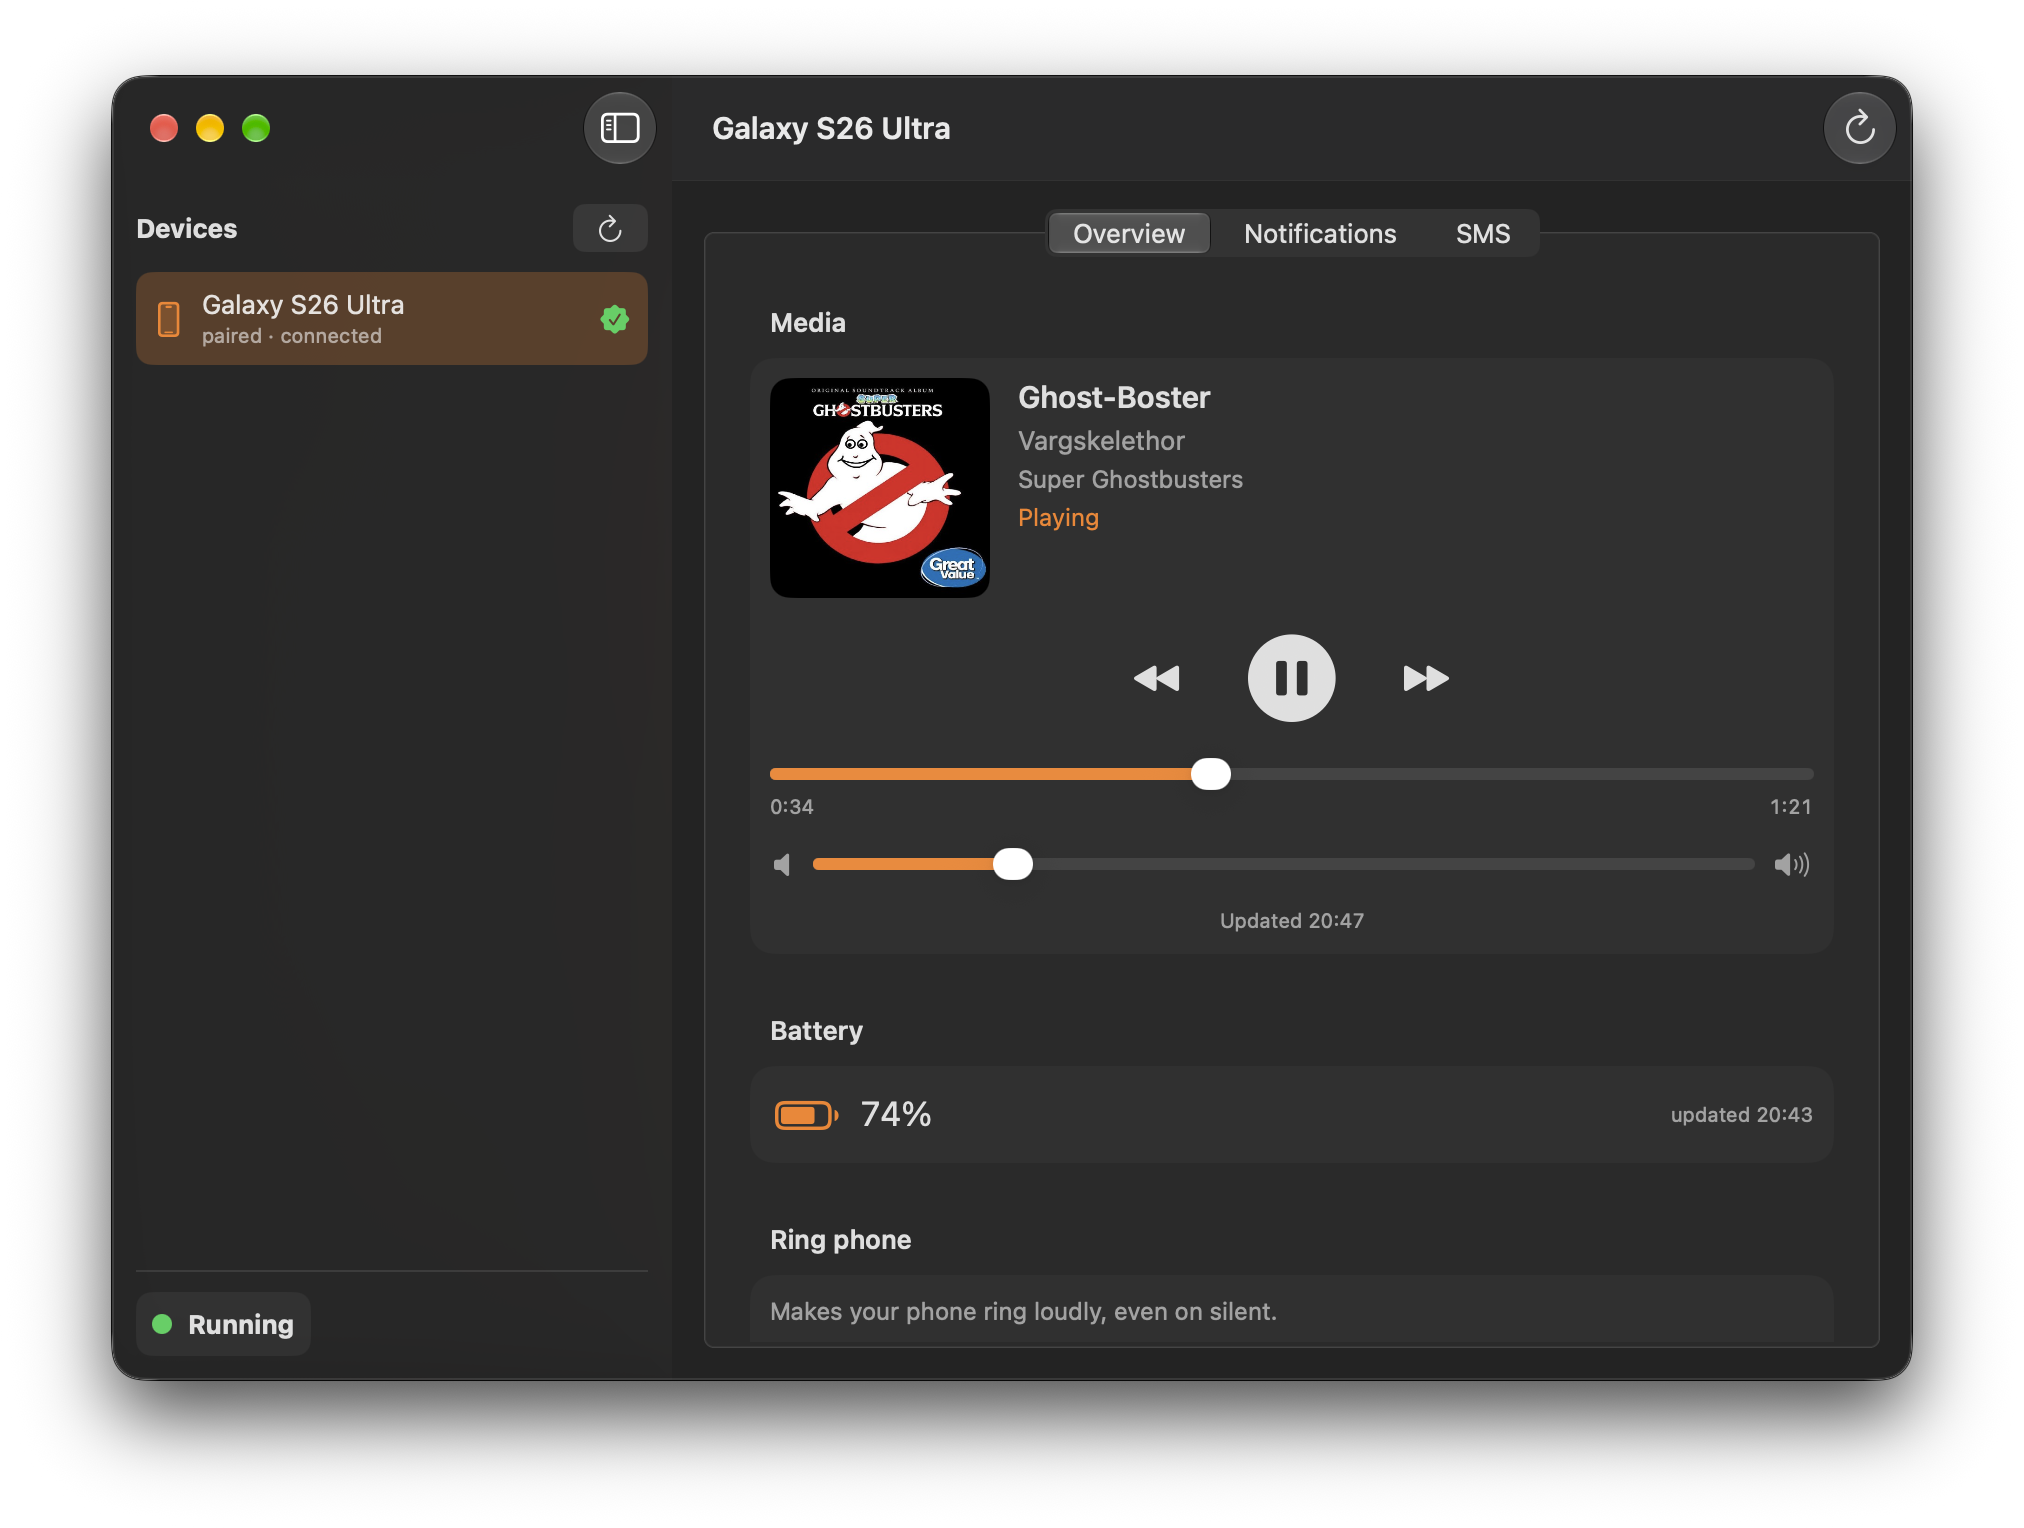
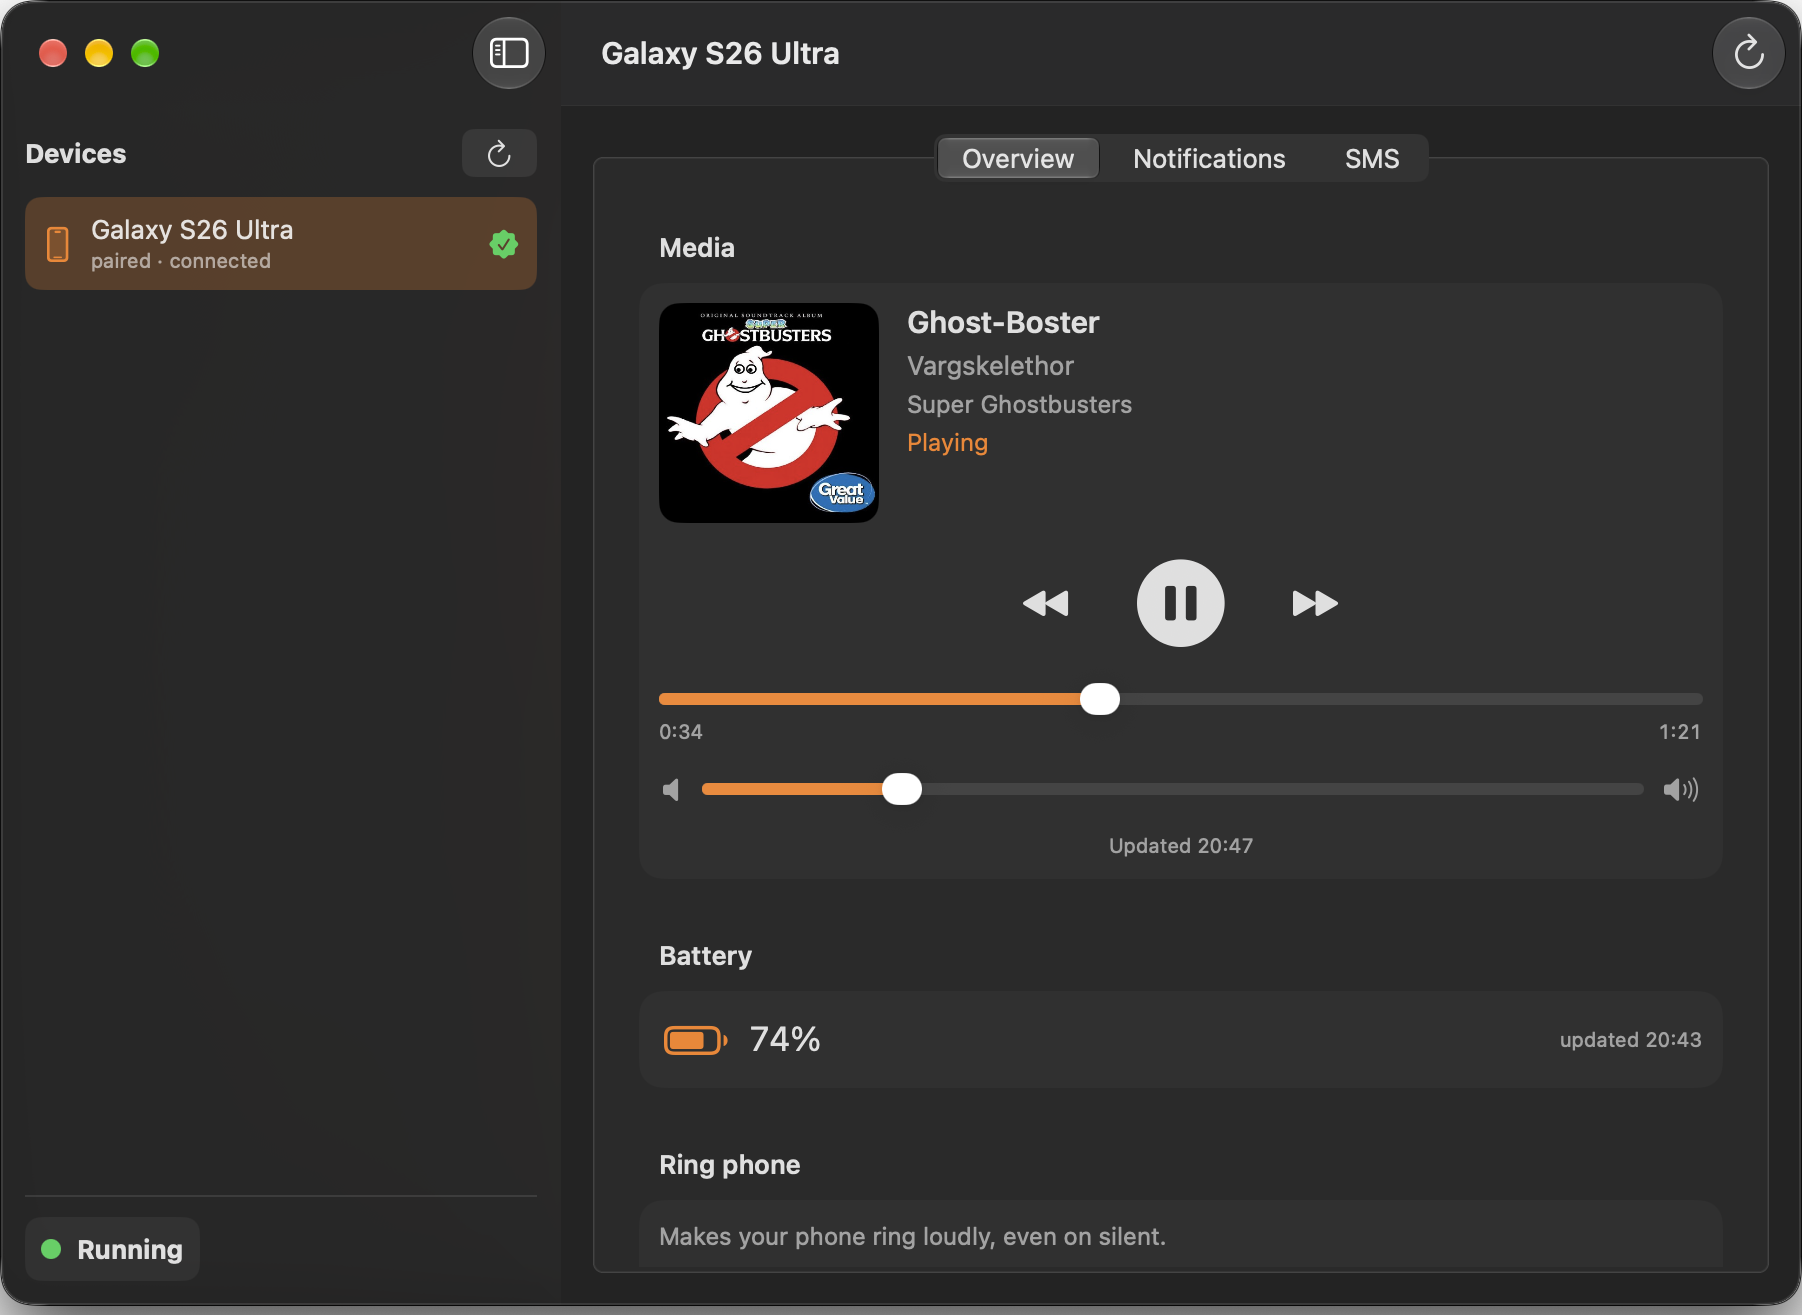
Images fix

diff --git a/README.md b/README.md
@@ -1,9 +1,10 @@
-<p align="center">
 ![icon](misc/icon.png)
+
 # daiKonnect
+
 ## KDE connect client for macOS
+
 ![main window](misc/mainui.png)
-</p>
 
 ## Install
 
